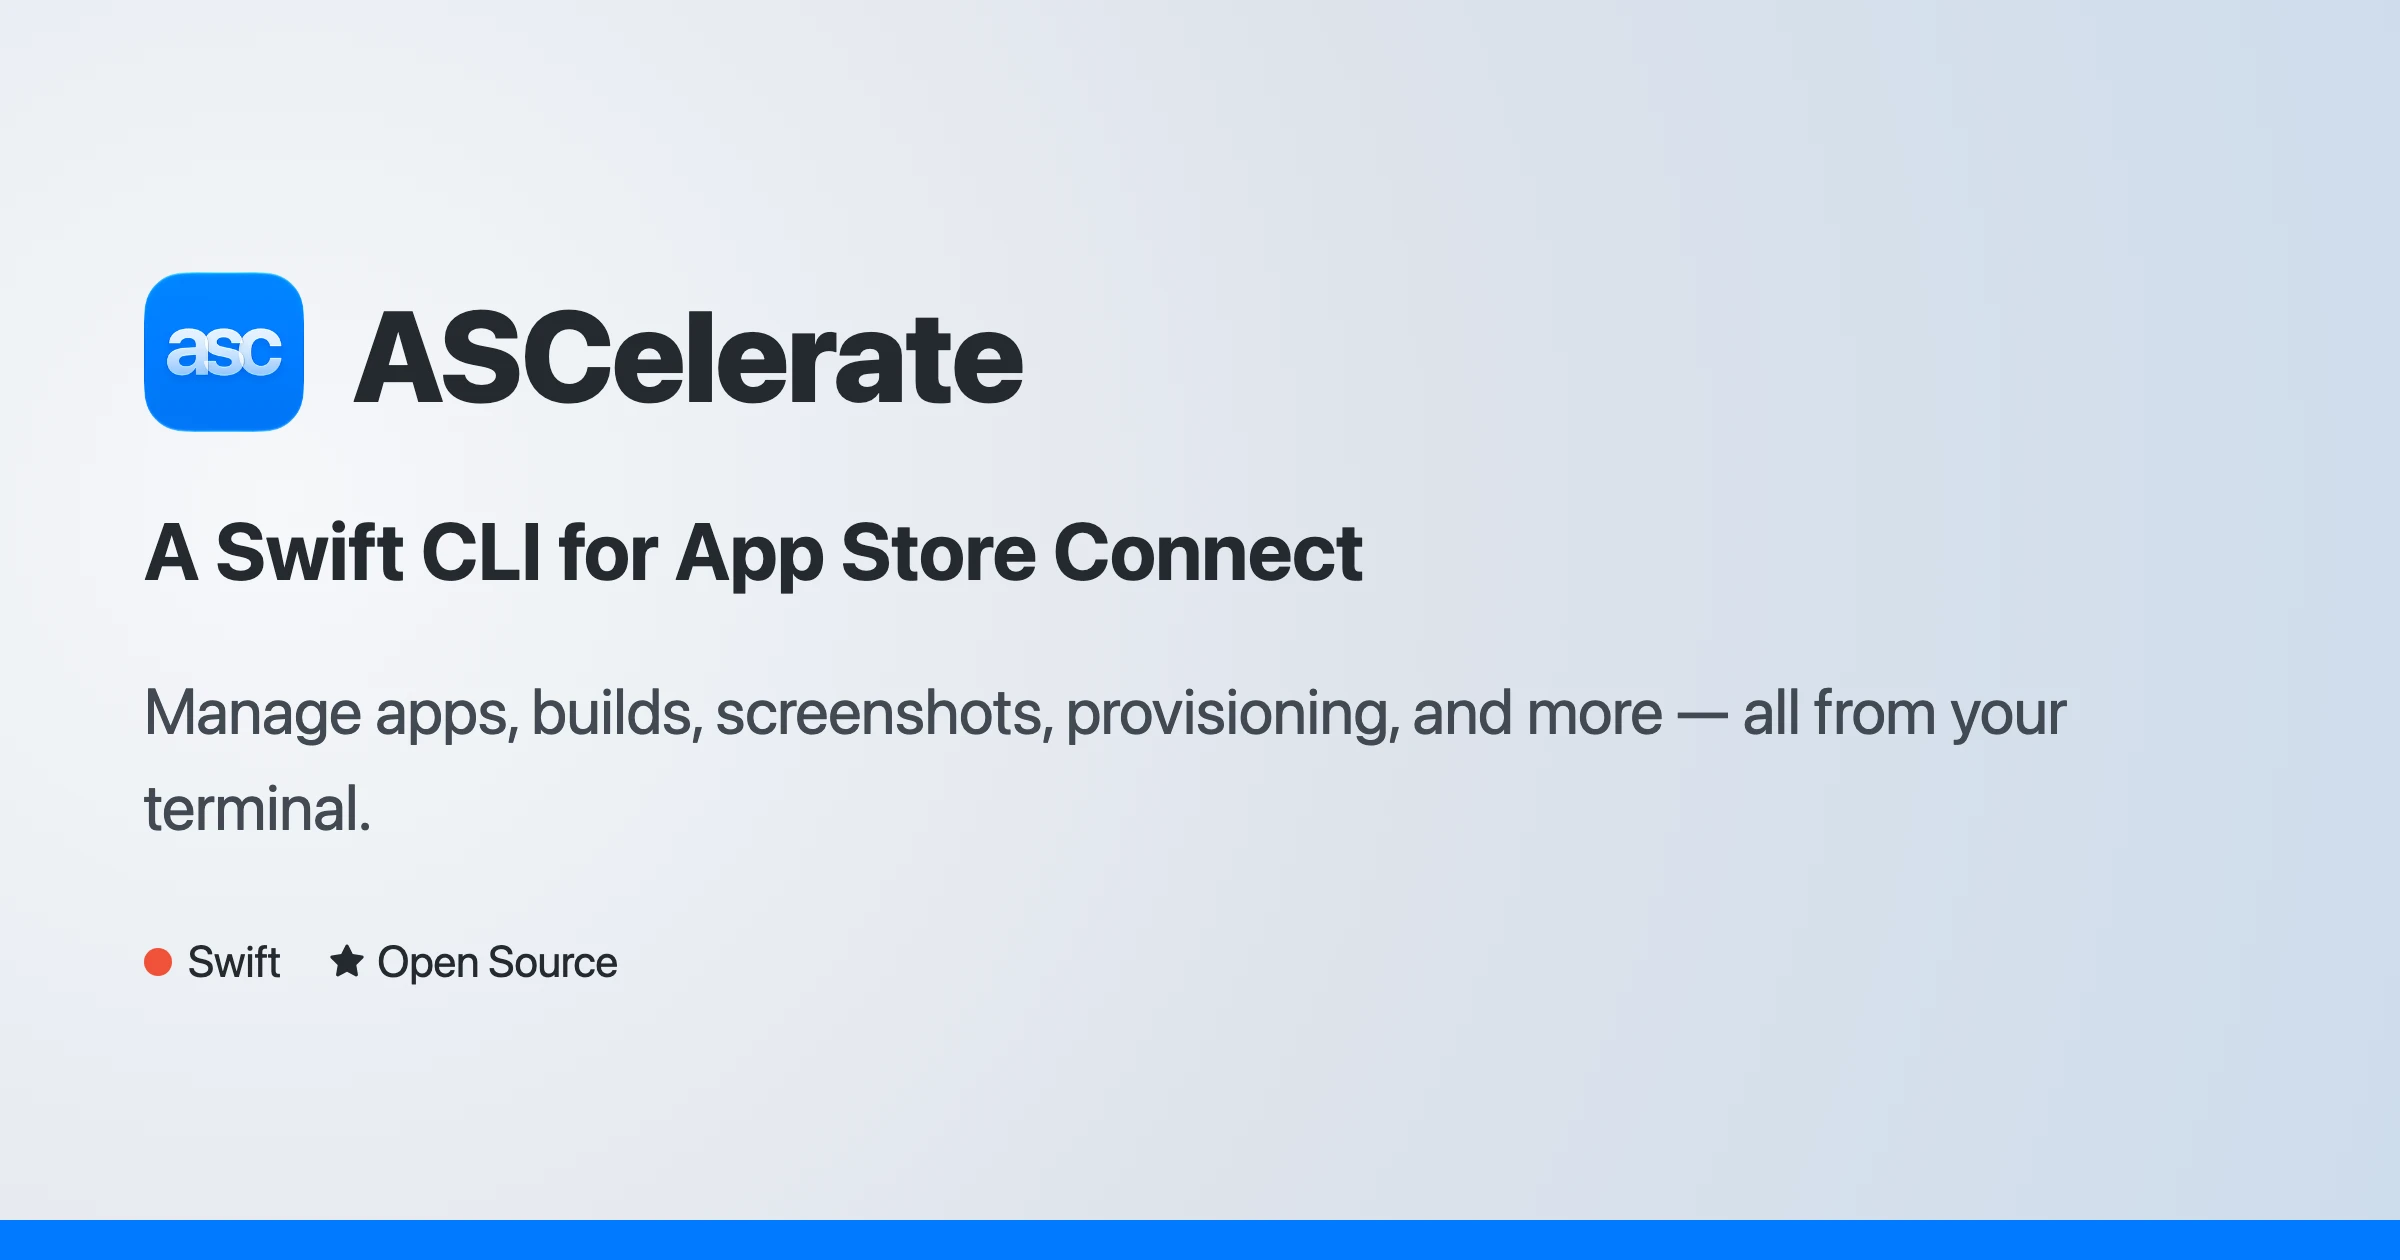
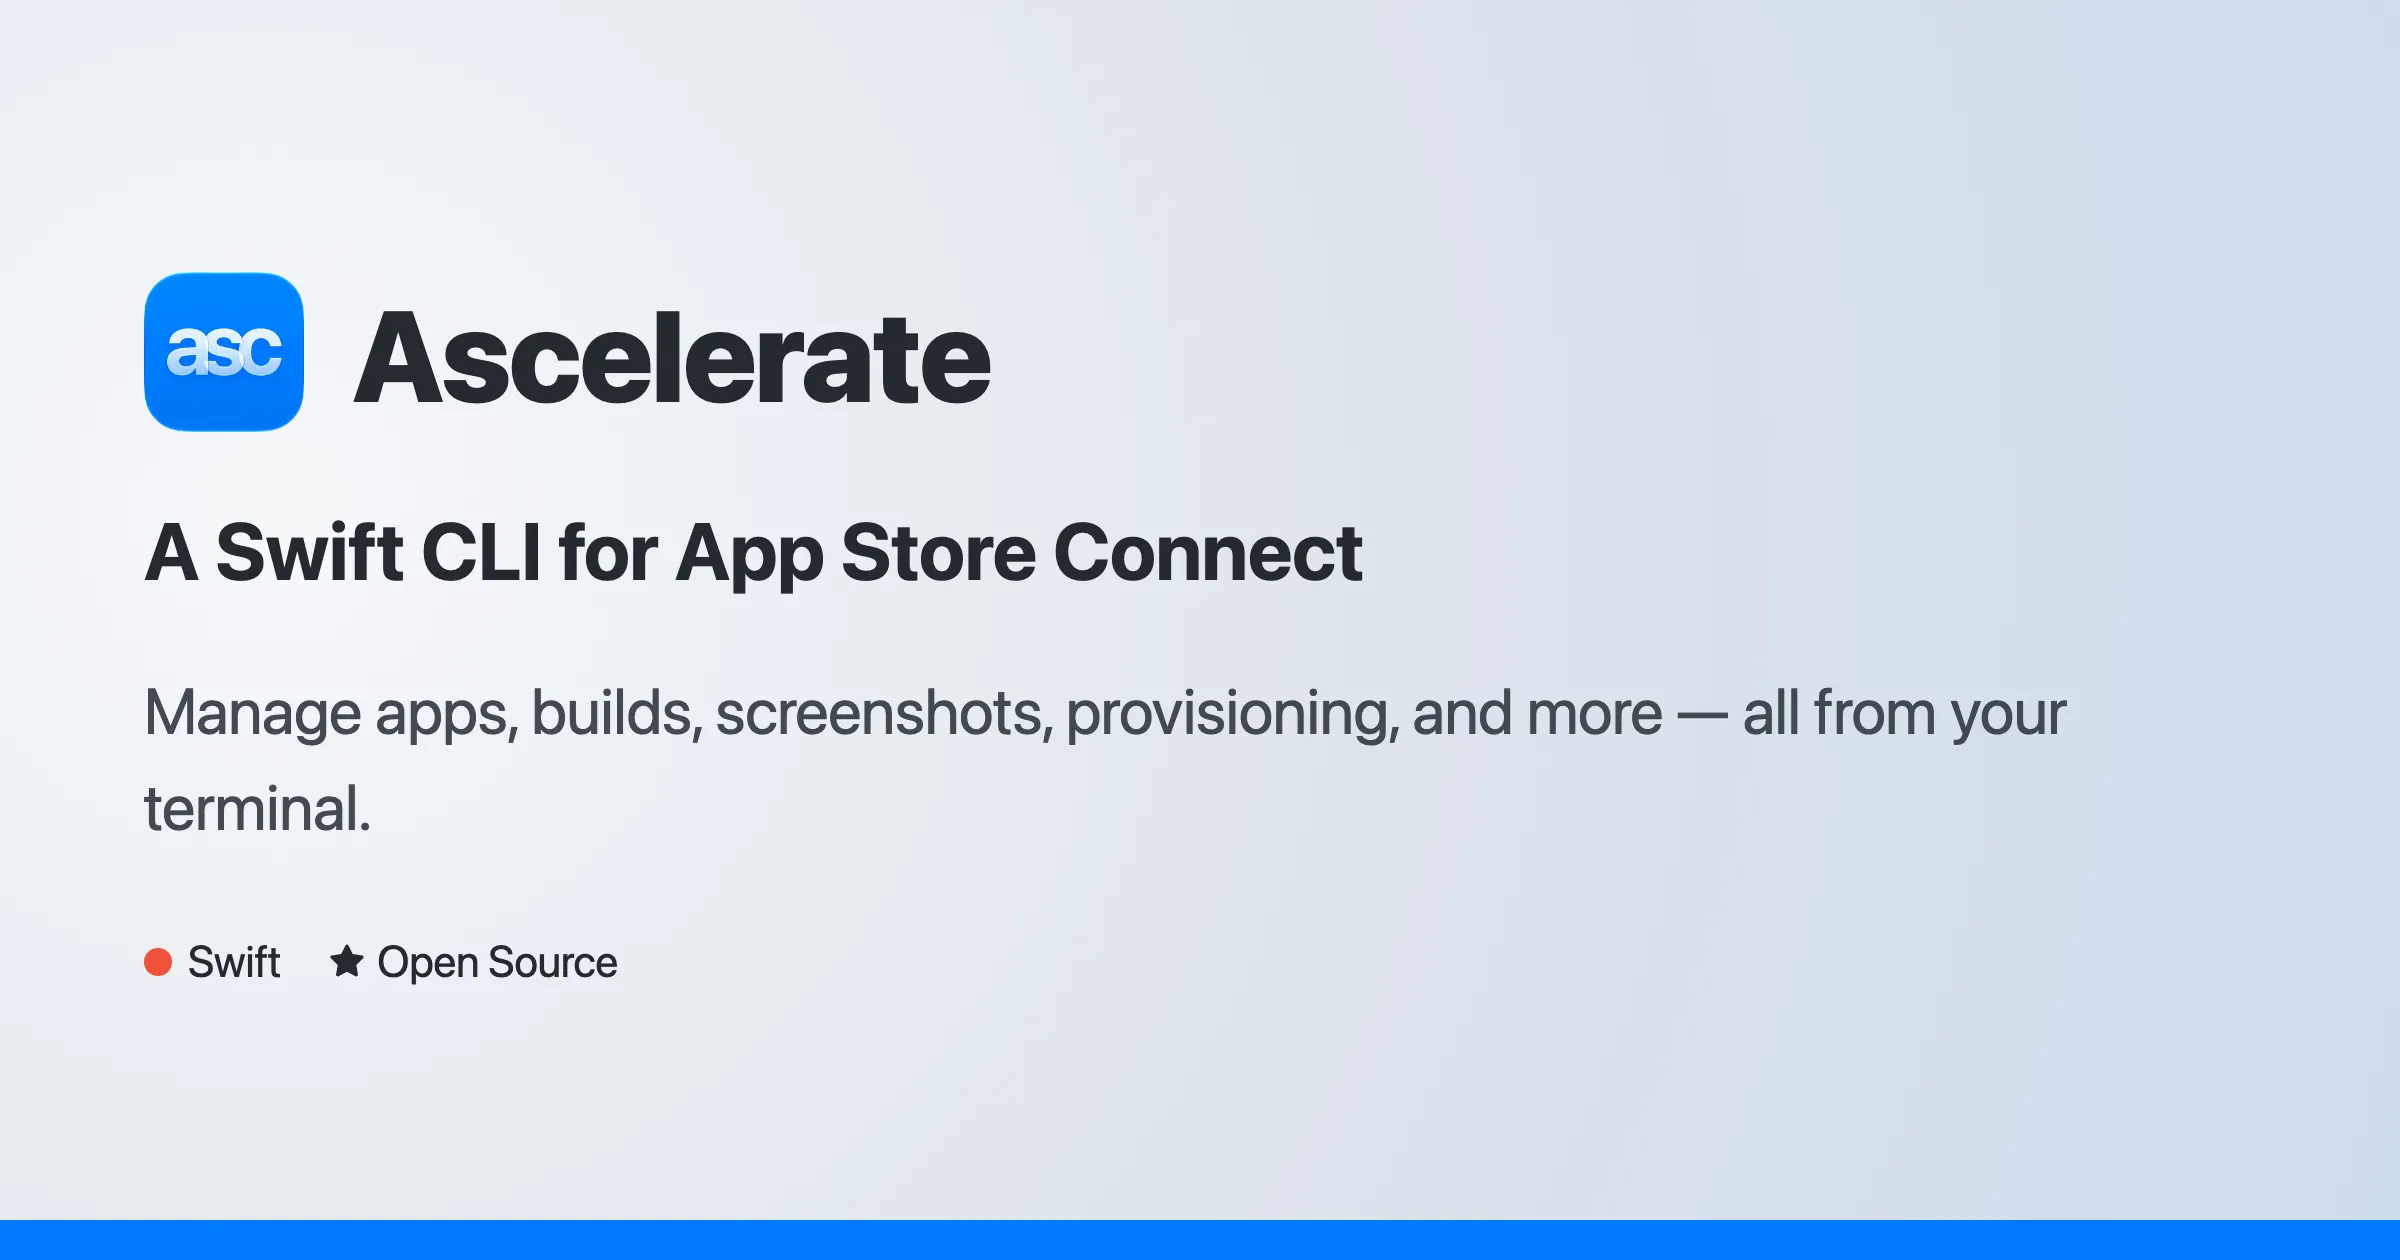
Spell the name Ascelerate on the website

Changed region(s): [[0.1875, 0.2476, 0.4375, 0.3405]]

diff --git a/website/docusaurus.config.ts b/website/docusaurus.config.ts
@@ -3,7 +3,7 @@ import type {Config} from '@docusaurus/types';
 import type * as Preset from '@docusaurus/preset-classic';
 
 const config: Config = {
-  title: 'ASCelerate',
+  title: 'Ascelerate',
   tagline: 'A Swift CLI for App Store Connect',
   favicon: 'img/favicon.svg',
 
@@ -62,7 +62,7 @@ const config: Config = {
     },
     navbar: {
       logo: {
-        alt: 'ASCelerate',
+        alt: 'Ascelerate',
         src: 'img/icon.png',
         srcDark: 'img/icon-dark.png',
       },

diff --git a/website/src/pages/index.tsx b/website/src/pages/index.tsx
@@ -16,7 +16,7 @@ function HomepageHeader() {
     <header className={styles.heroBanner}>
       <div className="container">
         <ThemedImage
-          alt="ASCelerate"
+          alt="Ascelerate"
           className={styles.heroLogo}
           sources={{light: '/img/icon.png', dark: '/img/icon-dark.png'}}
         />

diff --git a/website/social-card.html b/website/social-card.html
@@ -105,7 +105,7 @@
     <div class="logo">
       <img src="static/img/icon.png" alt="ascelerate icon">
     </div>
-    <div class="title">ASCelerate</div>
+    <div class="title">Ascelerate</div>
   </div>
 
   <div class="headline">A Swift CLI for App Store Connect</div>

diff --git a/website/static/index.md b/website/static/index.md
@@ -1,10 +1,10 @@
 ---
-title: "ASCelerate — A Swift CLI for App Store Connect"
+title: "Ascelerate — A Swift CLI for App Store Connect"
 description: "A command-line tool for building, archiving, and publishing apps to the App Store."
 canonical: https://ascelerate.dev/
 ---
 
-# ASCelerate
+# Ascelerate
 
 A Swift CLI for App Store Connect. Build, archive, and publish apps to the App Store — from Xcode archive to App Review submission. Manage versions, localizations, screenshots, provisioning, in-app purchases, subscriptions, sales reports, and Apple Ads campaigns.
 
